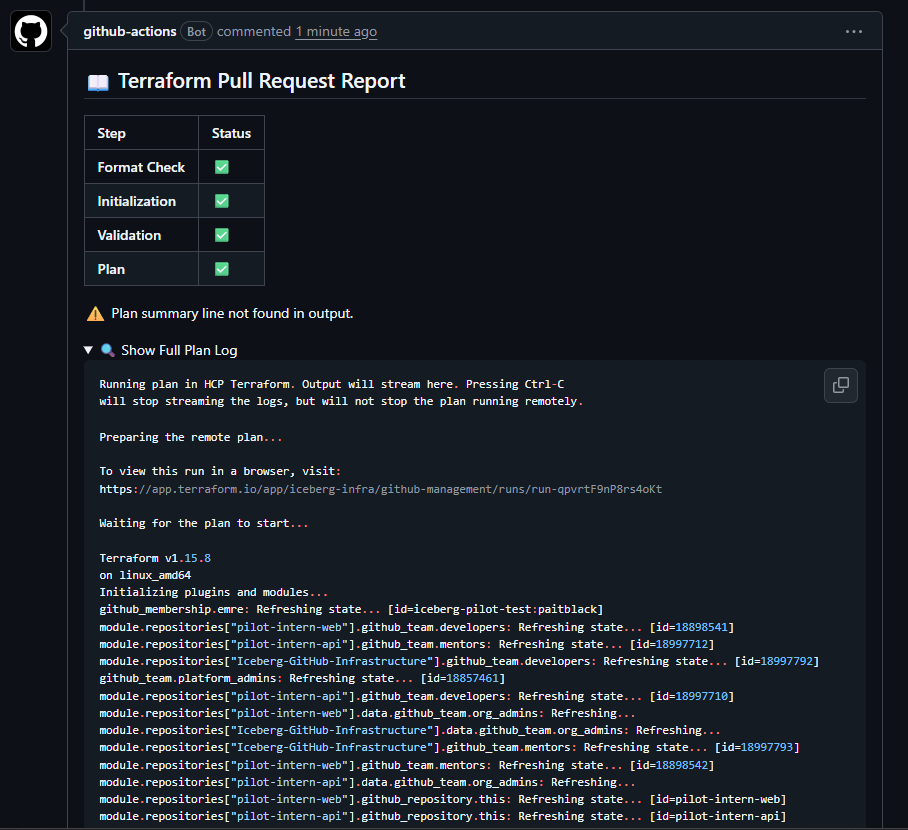
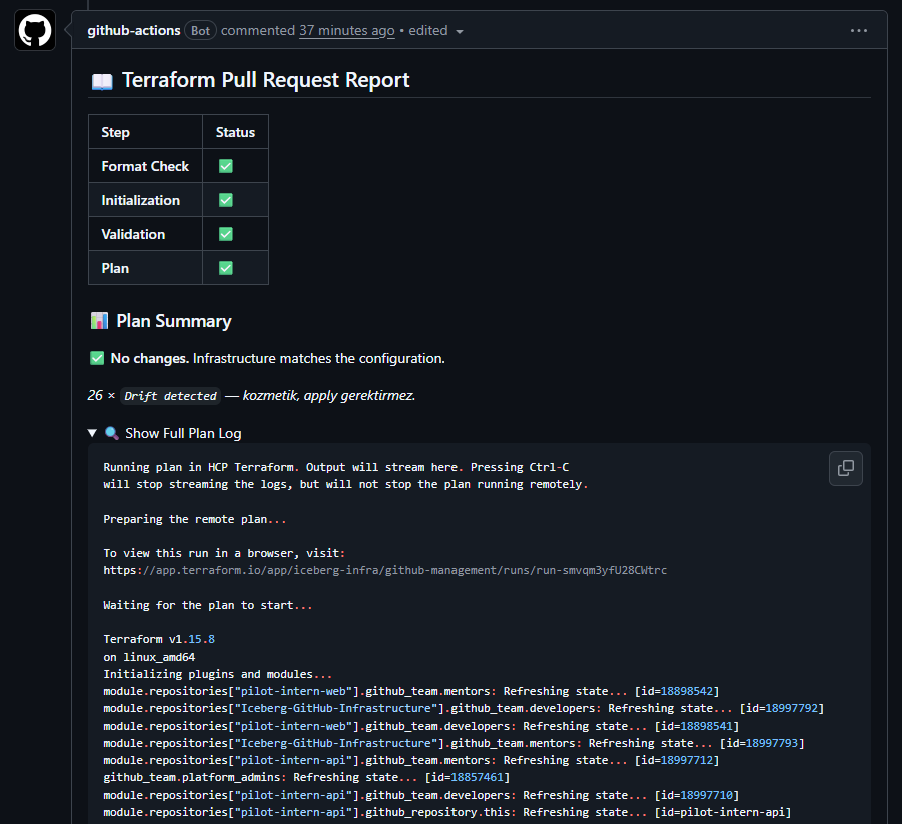
docs(verification): record live confirmation of the plan-summary fix

diff --git a/docs/pilot-verification.md b/docs/pilot-verification.md
@@ -356,7 +356,18 @@ sistem en sağlıklı olduğu anda uyarı üretiyordu; birkaç hafta sonra biri 
 
 Düzeltme: `No changes` için ayrı bir dal eklendi. Ayrıca `Drift detected` satırları
 sayılıp özete not olarak konuldu — log'daki duvarın kozmetik olduğunu açıklıyor
-(bkz. 7.3). Her iki senaryo da sahte plan çıktılarıyla render edilerek doğrulandı.
+(bkz. 7.3). Her iki senaryo önce sahte plan çıktılarıyla render edilerek, ardından
+**aynı PR'da canlı olarak** doğrulandı:
+
+```
+📊 Plan Summary
+✅ No changes. Infrastructure matches the configuration.
+
+26 × Drift detected — kozmetik, apply gerektirmez.
+```
+
+Aynı PR bu yüzden iki kez değerli oldu: hem döngünün çalıştığını gösterdi, hem de
+düzeltmenin kendisini doğrulayan test ortamı oldu.
 
 ### 7.3 Drift gürültüsü — beklenen davranış
 
@@ -368,6 +379,11 @@ formatta geri döndürüyor (ör. takım açıklamasında boşluk normalleşmesi
 kayıt sayıyor, apply sırasında fark görmeyince geçiyor.
 
 Tehlikesiz ama **gerçek değişiklikleri gölgeliyor** — bu yüzden özete sayı olarak eklendi.
+
+> **Kozmetik olduğunun doğrudan kanıtı:** `medine2906` erişimi verildikten ~10 dakika
+> sonra çalışan plan'da `github_membership.medine: Drift detected (update)` satırı çıktı.
+> Kaynak yeni oluşturulmuştu ve o aralıkta kimse ona dokunmadı — sapma gerçek olsaydı
+> mümkün değildi. Provider'ın okuduğu format ile gönderdiği format farklı, hepsi bu.
 
 ### 7.4 Kanıtlanan bir tasarım kararı — `develop`'a merge hiçbir şey uygulamaz
 
